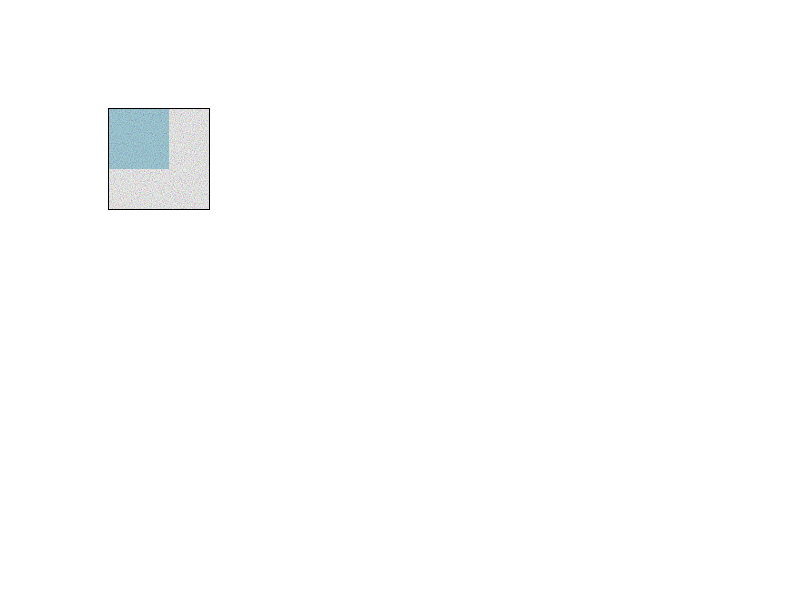
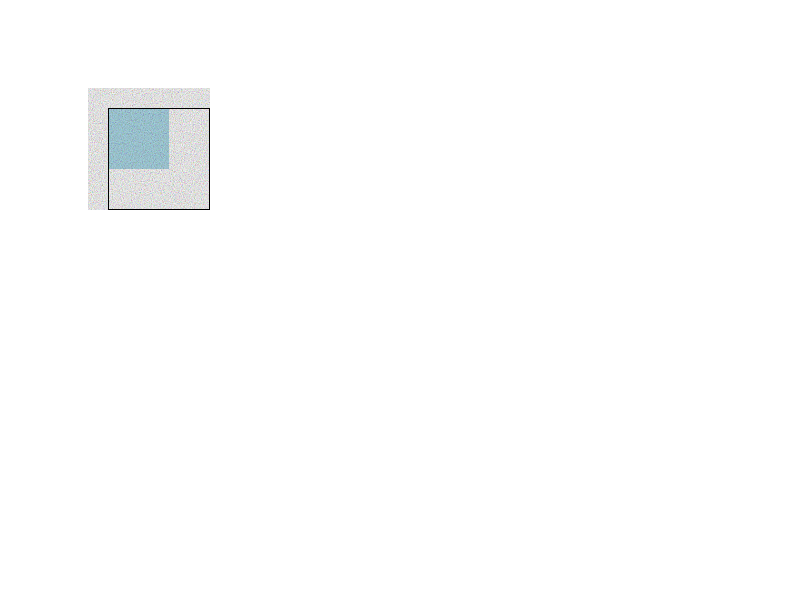
[Blink] Restore CSS clip and filter application order
There was a previous bug [1] that prevented overflow clip from being
applied in the presence of a filter on the same element. The CL [2]
fixed the overflow/filter interaction but inadvertently changed
clip/filter interaction:

Buggy behavior prior to [2]:
output <-- clip/clip-path/mask <-- filter <-- children

Buggy behavior after [2]:
output <-- clip/clip-path/mask <-- filter <-- clip <-- overflow <-- children

This CL restores clip/filter interaction so that they will be applied
in the following order:
output <-- clip/clip-path/mask <-- filter <-- overflow <-- children

[1] https://crbug.com/734116
[2] https://chromium-review.googlesource.com/c/567520

BUG=734116,747511

Cq-Include-Trybots: master.tryserver.chromium.linux:linux_layout_tests_slimming_paint_v2
Commit-Queue: Tien-Ren Chen <trchen@chromium.org>
Cr-Original-Commit-Position: refs/heads/master@{#490201}
Cr-Mirrored-From: https://chromium.googlesource.com/chromium/src
Cr-Mirrored-Commit: 21cfe2d238708828554124c8a6f98895e3f39577

Changed region(s): [[0.0938, 0.12, 0.2812, 0.36]]

diff --git a/WebKit/LayoutTests/paint/filters/clip-filter-overflow-clip-expected.html b/WebKit/LayoutTests/paint/filters/clip-filter-overflow-clip-expected.html
@@ -1,0 +1,8 @@
+<!DOCTYPE html>
+<div style="position:absolute; left:10px; top:200px; width:100px; height:100px; border:5px dashed black; background:green; filter:blur(3px);">
+</div>
+<div style="position:absolute; left:0; top:190px; width:65px; height:130px; background:white;"></div>
+<div style="position:absolute; left:115px; top:190px; width:15px; height:130px; background:white;"></div>
+This test verifies CSS clip, filter, and overflow clip are applied in the order of:<br/>
+output &lt;-- clip &lt;-- filter &lt;-- overflow clip &lt;-- normal-flow contents<br/>
+The test succeeds if the green box below has a crisp left edge, blurred top/bottom dashed border, and a crisp right edge with blurred partial dashed border. No red should be visible.

diff --git a/WebKit/LayoutTests/paint/filters/clip-filter-overflow-clip.html b/WebKit/LayoutTests/paint/filters/clip-filter-overflow-clip.html
@@ -1,0 +1,7 @@
+<!DOCTYPE html>
+<div style="position:absolute; left:10px; top:200px; width:100px; height:100px; border:5px dashed black; background:green; clip:rect(-10px,105px,120px,55px); overflow:hidden; filter:blur(3px);">
+  <div style="margin-left:-5px; margin-top:-5px; width:100px; height:100px; border:5px solid red;"></div>
+</div>
+This test verifies CSS clip, filter, and overflow clip are applied in the order of:<br/>
+output &lt;-- clip &lt;-- filter &lt;-- overflow clip &lt;-- normal-flow contents<br/>
+The test succeeds if the green box below has a crisp left edge, blurred top/bottom dashed border, and a crisp right edge with blurred partial dashed border. No red should be visible.

diff --git a/WebKit/LayoutTests/fast/clip/css-clip-filter-order-expected.html b/WebKit/LayoutTests/fast/clip/css-clip-filter-order-expected.html
@@ -1,7 +1,7 @@
 <!DOCTYPE html>
 <div style="position:absolute; left:50px; top:50px; width:100px; height:100px; clip:rect(20px, 80px, 80px, 20px);">
-  <div style="position:absolute; left: 0px; top: 0px; width:100px; height:100px; filter:blur(5px)">
-    <div style="position:absolute; left: 0px; top: 0px; width:100px; height:100px; background:green; clip:rect(20px, 80px, 80px, 20px);"></div>
+  <div style="width:100px; height:100px; filter:blur(5px)">
+    <div style="width:100px; height:100px; background:green;"></div>
   </div>
 </div>
 This test verifies CSS clip correctly applies to the output of stacking context effects if both present on the same element.

diff --git a/WebKit/LayoutTests/paint/filters/clip-under-filter-2.html b/WebKit/LayoutTests/paint/filters/clip-under-filter-2.html
@@ -1,0 +1,6 @@
+<!DOCTYPE html>
+<div style="position:relative; width:100px; height:100px; border:5px dashed black; background:green; overflow:hidden; filter:opacity(1);">
+  <div style="margin-left:-5px; margin-top:-5px; width:100px; height:100px; border:5px solid red;"></div>
+</div>
+This test verifies overflow clip correctly applies to children in the presence of a filter on the same element.<br/>
+It succeeds if a green box with dashed black border is shown. No red border should be visible.

diff --git a/WebKit/LayoutTests/paint/filters/clip-under-filter-2-expected.html b/WebKit/LayoutTests/paint/filters/clip-under-filter-2-expected.html
@@ -1,0 +1,5 @@
+<!DOCTYPE html>
+<div style="width:100px; height:100px; border:5px dashed black; background:green;">
+</div>
+This test verifies overflow clip correctly applies to children in the presence of a filter on the same element.<br/>
+It succeeds if a green box with dashed black border is shown. No red border should be visible.

diff --git a/WebKit/Source/core/paint/PaintLayerPainter.cpp b/WebKit/Source/core/paint/PaintLayerPainter.cpp
@@ -460,10 +460,10 @@ PaintResult PaintLayerPainter::PaintLayerContents(
     } else if (image_filter && !paint_layer_.EnclosingPaginationLayer()) {
       // Clipping in the presence of filters needs to happen in two phases.
       // It proceeds like this:
-      // 1. Apply clips inside the filter (including any clips on
-      //  paint_layer_), not including the dirty rect.
-      // 2. Paint the filter.
-      // 3. Apply clips outside the filter.
+      // 1. Apply overflow clip to normal-flow contents.
+      // 2. Paint layer contents into the filter.
+      // 3. Apply all inherited clips (including dirty rect) plus CSS clip
+      //    of the current layer to the filter output.
       //
       // It is critical to avoid clipping to the dirty rect or any clips
       // above the filter before applying the filter, because content which
@@ -472,16 +472,16 @@ PaintResult PaintLayerPainter::PaintLayerContents(
       //
       // #1 is applied in the lines below.  #3 is applied in FilterPainter,
       // and computed just before construction of the FilterPainter.
-      paint_layer_.AppendSingleFragmentIgnoringPagination(
-          layer_fragments, &paint_layer_,
-          LayoutRect(LayoutRect::InfiniteIntRect()), cache_slot,
-          PaintLayer::kUseGeometryMapper, kIgnorePlatformOverlayScrollbarSize,
-          kRespectOverflowClip, nullptr,
-          local_painting_info.sub_pixel_accumulation);
-
-      layer_fragments[0].layer_bounds.MoveBy(offset_from_root);
-      layer_fragments[0].background_rect.MoveBy(offset_from_root);
-      layer_fragments[0].foreground_rect.MoveBy(offset_from_root);
+      LayoutRect foreground_clip(LayoutRect::InfiniteIntRect());
+      if (paint_layer_.GetLayoutObject().IsBox()) {
+        const LayoutBox& box = ToLayoutBox(paint_layer_.GetLayoutObject());
+        if (box.ShouldClipOverflow())
+          foreground_clip = box.OverflowClipRect(offset_from_root);
+      }
+      PaintLayerFragment& fragment = layer_fragments.emplace_back();
+      fragment.SetRects(
+          LayoutRect(offset_from_root, LayoutSize(paint_layer_.size())),
+          LayoutRect(LayoutRect::InfiniteIntRect()), foreground_clip);
     } else {
       paint_layer_for_fragments->CollectFragments(
           layer_fragments, local_painting_info.root_layer,

diff --git a/WebKit/Source/core/paint/PaintLayerClipper.cpp b/WebKit/Source/core/paint/PaintLayerClipper.cpp
@@ -291,13 +291,8 @@ void PaintLayerClipper::CalculateRectsWithGeometryMapper(
     background_rect.Intersect(paint_dirty_rect);
 
     foreground_rect = background_rect;
-
-    LayoutBoxModelObject& layout_object = layer_.GetLayoutObject();
-    if (layout_object.HasClip()) {
-      LayoutRect new_pos_clip = ToLayoutBox(layout_object).ClipRect(offset);
-      foreground_rect.Intersect(new_pos_clip);
-    }
     if (ShouldClipOverflow(context)) {
+      LayoutBoxModelObject& layout_object = layer_.GetLayoutObject();
       LayoutRect overflow_and_clip_rect =
           ToLayoutBox(layout_object)
               .OverflowClipRect(offset,
@@ -526,6 +521,13 @@ LayoutRect PaintLayerClipper::LocalVisualRect() const {
           // PaintLayer are in physical coordinates, so the overflow has to be
           // flipped.
           layer_bounds_with_visual_overflow);
+  // At this point layer_bounds_with_visual_overflow only includes the visual
+  // overflow induced by paint, prior to applying filters. This function is
+  // expected the return the final visual rect after filtering.
+  if (layer_.PaintsWithFilters()) {
+    layer_bounds_with_visual_overflow =
+        layer_.MapLayoutRectForFilter(layer_bounds_with_visual_overflow);
+  }
   return layer_bounds_with_visual_overflow;
 }
 

diff --git a/WebKit/Source/core/paint/PaintLayerClipperTest.cpp b/WebKit/Source/core/paint/PaintLayerClipperTest.cpp
@@ -455,9 +455,12 @@ TEST_F(PaintLayerClipperTest, Filter) {
       .CalculateRects(context, infinite_rect, layer_bounds, background_rect,
                       foreground_rect);
 
-  // The foreground and background should both be 100x200, since the filter
-  // applies after clip.
-  EXPECT_EQ(LayoutRect(0, 0, 100, 200), background_rect.Rect());
+  // The background rect is used to clip stacking context (layer) output.
+  // In this case, nothing is above us, thus the infinite rect. However we do
+  // clip to the layer's after-filter visual rect as an optimization
+  EXPECT_EQ(LayoutRect(-12, -9, 124, 224), background_rect.Rect());
+  // The foreground rect is used to clip the normal flow contents of the
+  // stacking context (layer) thus including the overflow clip.
   EXPECT_EQ(LayoutRect(0, 0, 100, 200), foreground_rect.Rect());
 }
 
